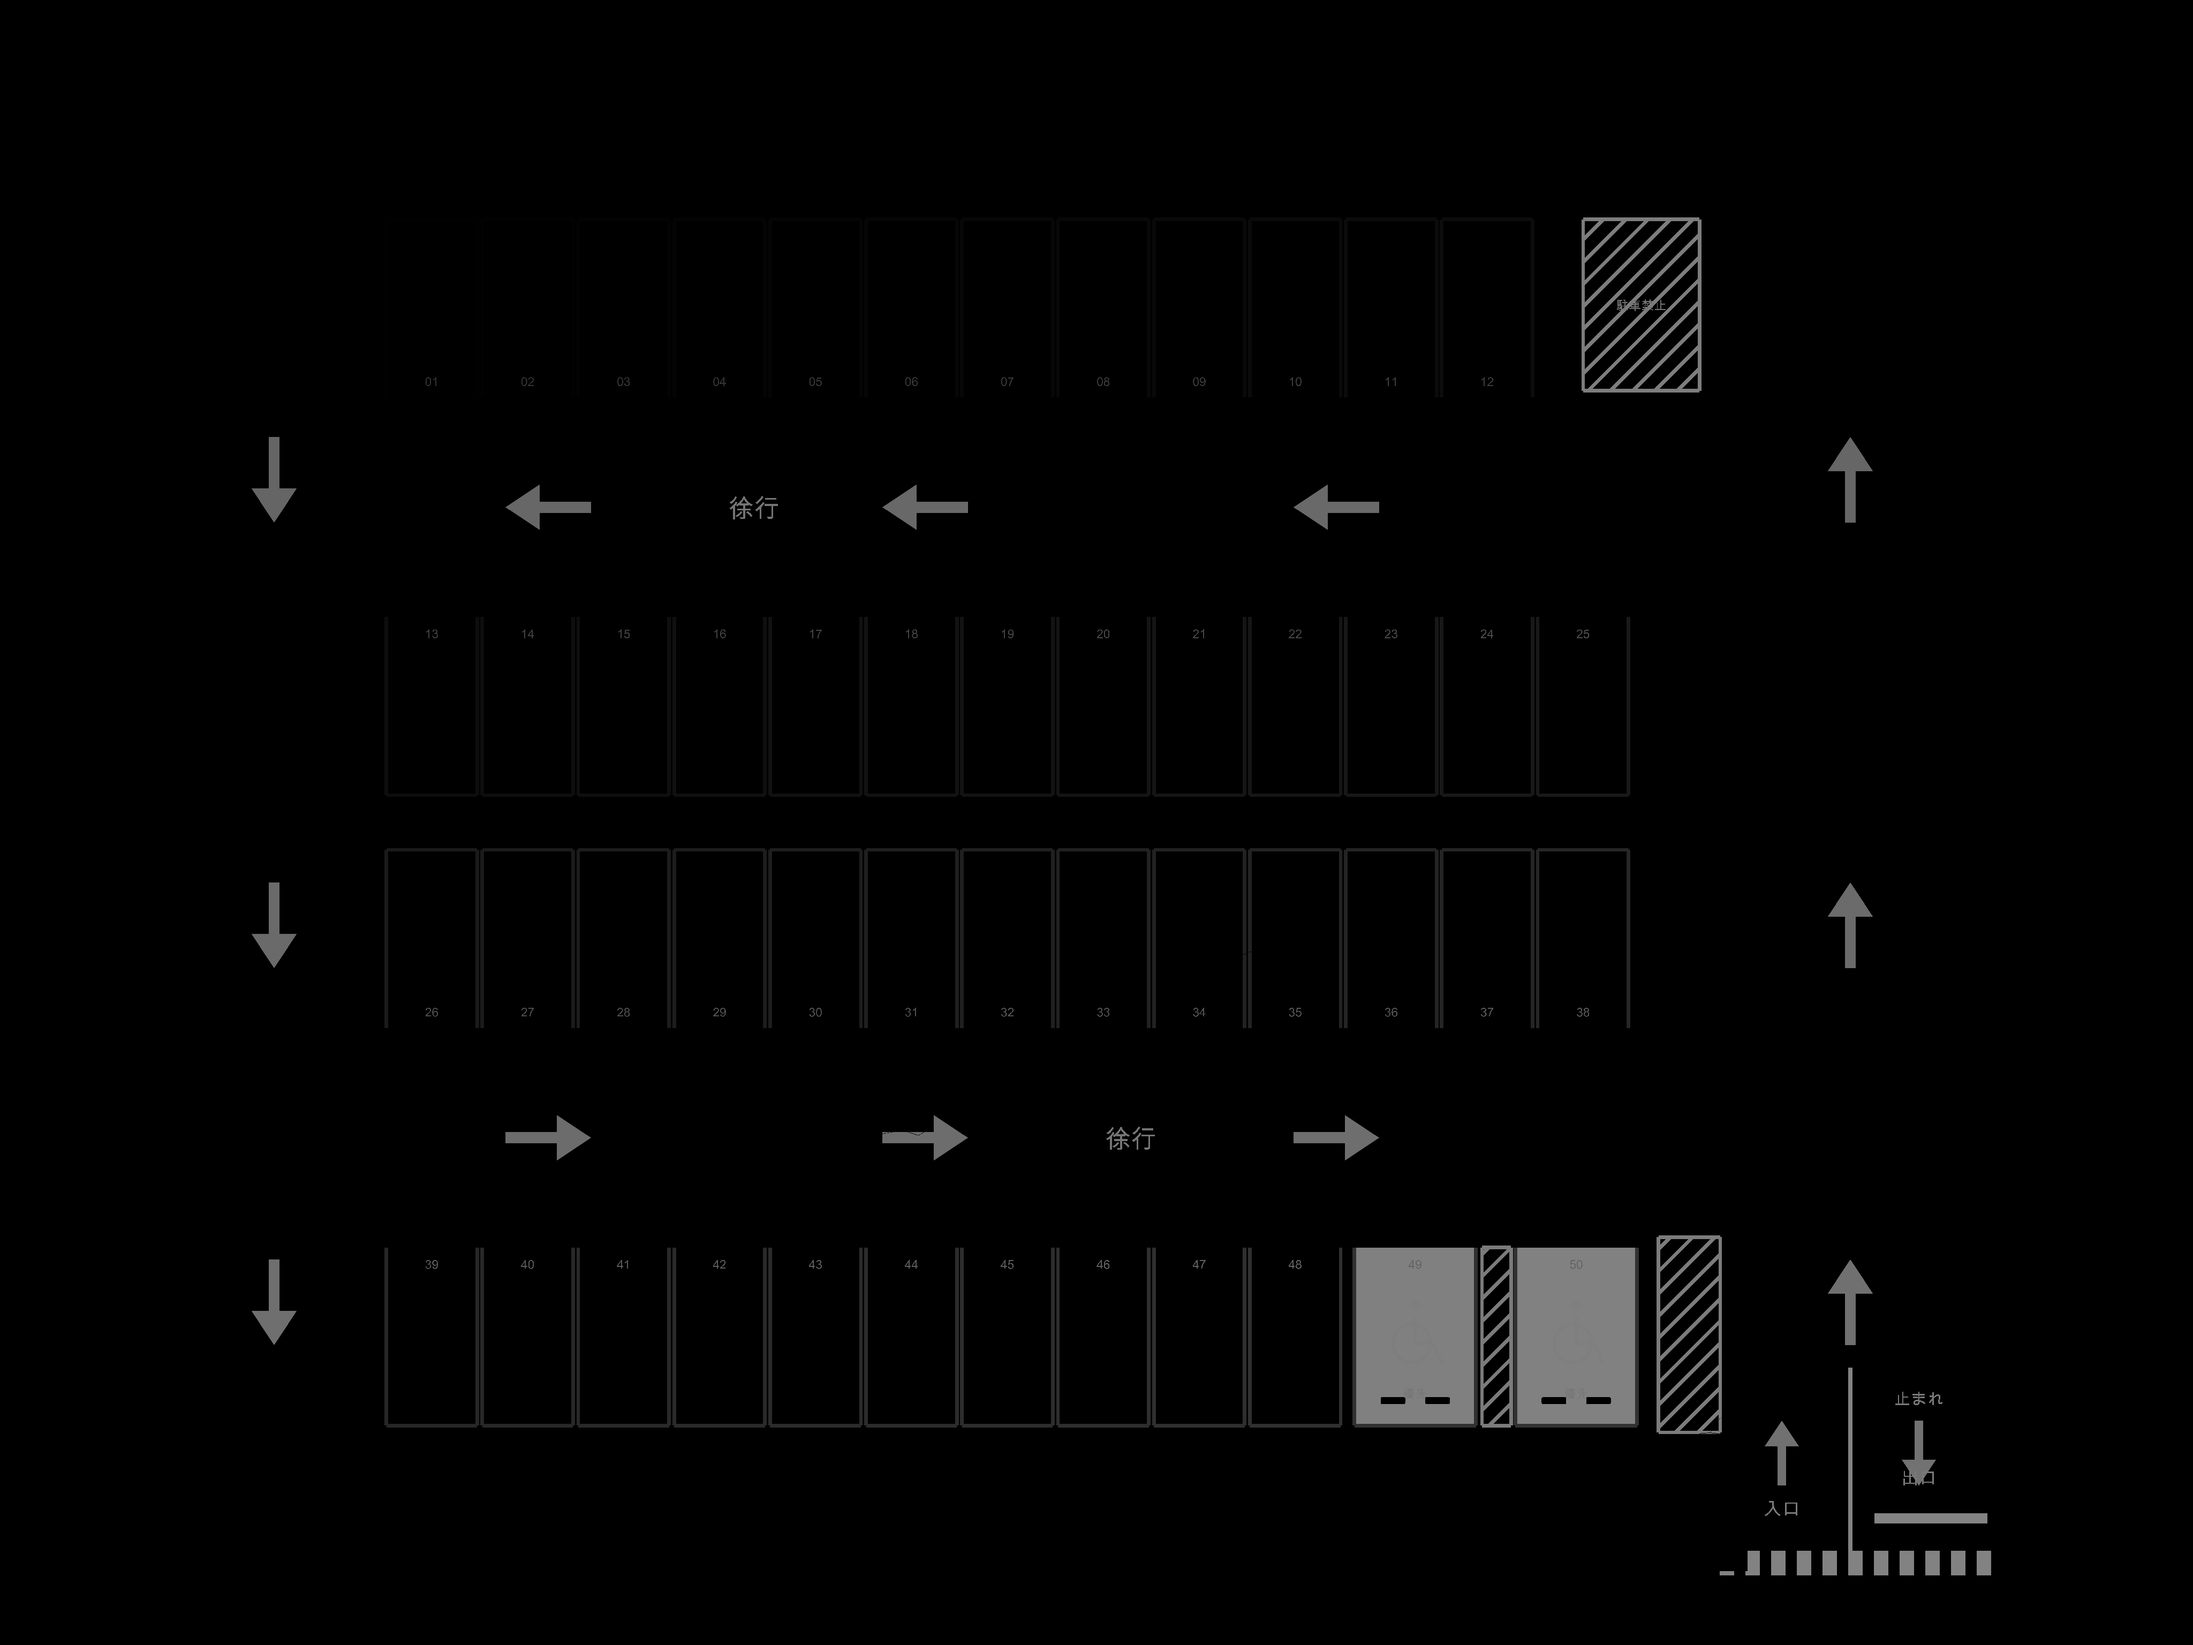
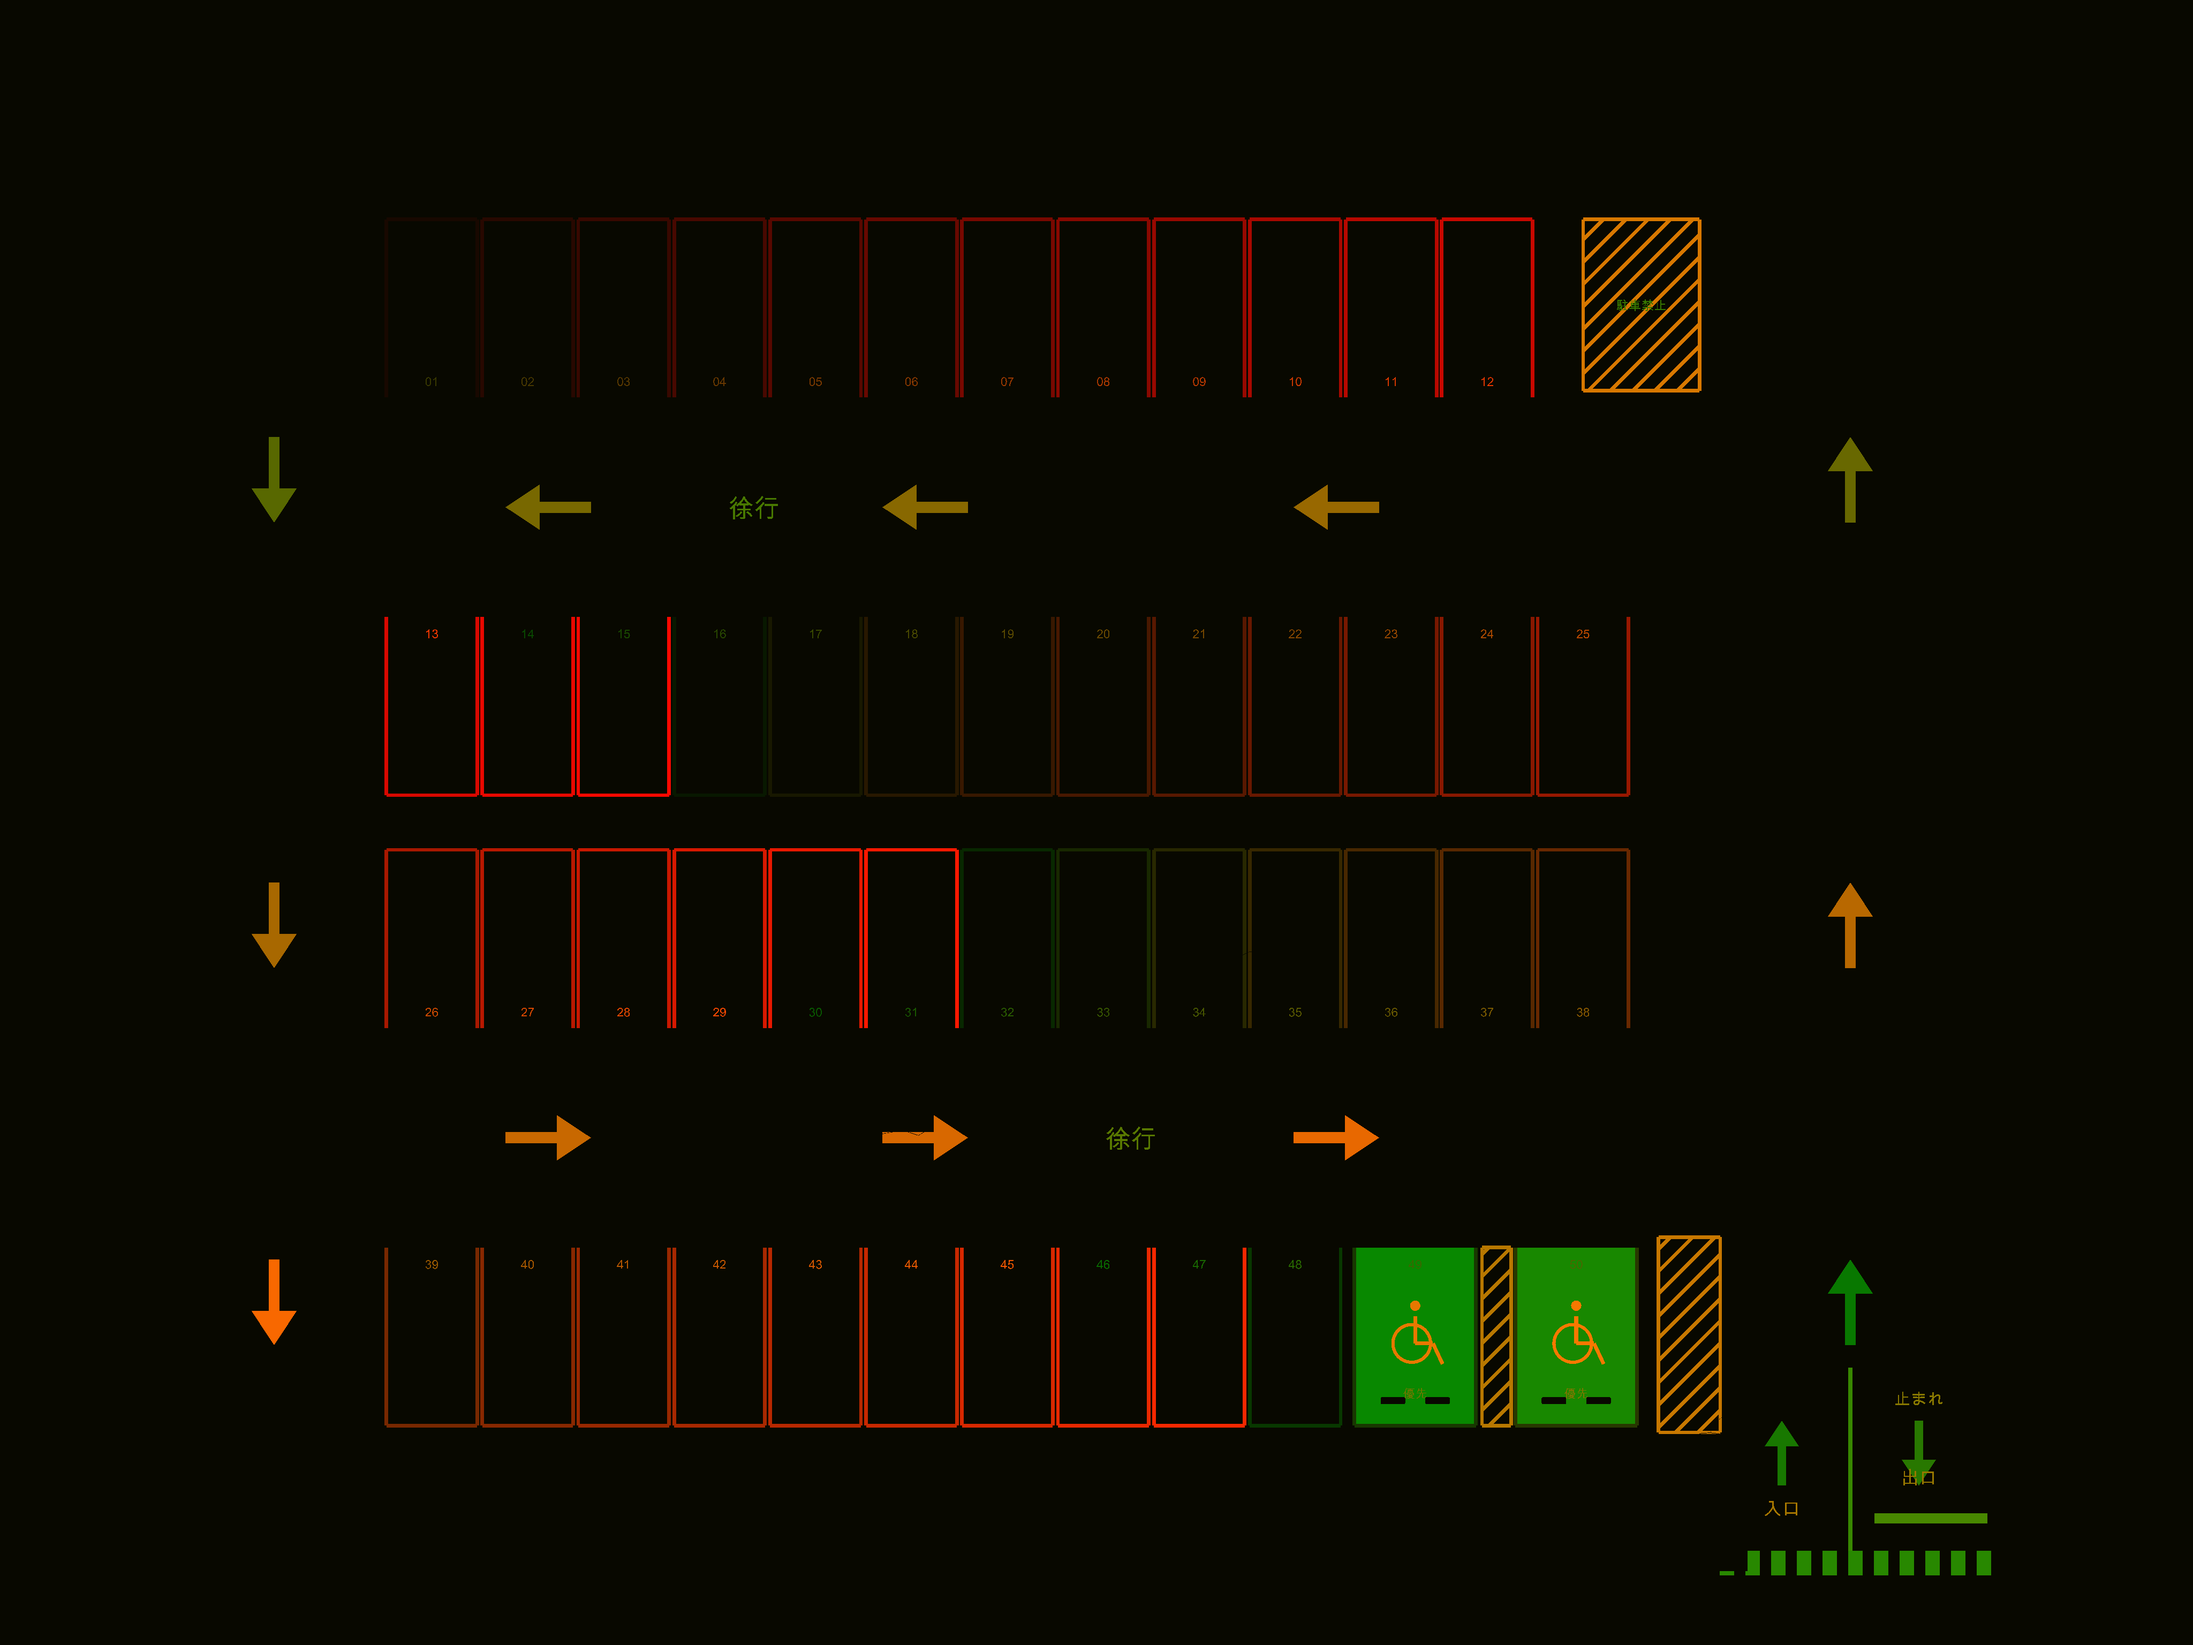
Demo: noise-tolerant marking-id map (Safari canvas fingerprint protection punched holes in the M panel)

diff --git a/docs/index.html b/docs/index.html
@@ -5,7 +5,7 @@
 <meta name="viewport" content="width=device-width, initial-scale=1">
 <title>Recover-then-Measure · Interactive demo</title>
 <meta name="description" content="Hover any pavement marking to see its original footprint M, its residual paint R, the degradation index D and the maintenance grade.">
-<link rel="preload" href="assets/topdown_rgb.webp?v=20261006b" as="fetch" crossorigin>
+<link rel="preload" href="assets/topdown_rgb.webp?v=20261006c" as="fetch" crossorigin>
 <style>
 :root{
   --bg:#0c0f14; --panel:#141920; --panel2:#1a2029; --line:#27303b; --text:#e8eef4; --muted:#8c99a6;
@@ -248,15 +248,15 @@ function buildLayer(colorOf){
 
 async function init(){
   const [json, rgb, m, r, id] = await Promise.all([
-    fetch("assets/regions.json?v=20261006b").then(x => x.json()),
-    bitmap("assets/topdown_rgb.webp?v=20261006b"), bitmap("assets/mask_M.png?v=20261006b"),
-    bitmap("assets/mask_R.png?v=20261006b"), bitmap("assets/mask_ids.png?v=20261006b")]);
+    fetch("assets/regions.json?v=20261006c").then(x => x.json()),
+    bitmap("assets/topdown_rgb.webp?v=20261006c"), bitmap("assets/mask_M.png?v=20261006c"),
+    bitmap("assets/mask_R.png?v=20261006c"), bitmap("assets/mask_ids.png?v=20261006c")]);
   regions = json.regions; W = json.image_width; H = json.image_height; MPP = json.metres_per_pixel || MPP;
   regions.forEach((g, i) => byId.set(g.id, i));
   rgbBmp = rgb; rgbData = pixels(rgb);
   const md = pixels(m), rd = pixels(r), idd = pixels(id);
   Mm = new Uint8Array(W*H); Rm = new Uint8Array(W*H); ids = new Uint8Array(W*H);
-  for (let k = 0, i = 0; k < W*H; k++, i += 4){ Mm[k] = md[i] > 127; Rm[k] = rd[i] > 127 && Mm[k]; ids[k] = Mm[k] ? idd[i] : 0; }
+  for (let k = 0, i = 0; k < W*H; k++, i += 4){ Mm[k] = md[i] > 127; Rm[k] = rd[i] > 127 && Mm[k]; ids[k] = Mm[k] ? (((idd[i+1] >> 4) << 4) | (idd[i] >> 4)) : 0; }   // noise-tolerant: 16 grey levels per id digit
   const gcol = GRADE_COLORS.map(h => [parseInt(h.slice(1,3),16), parseInt(h.slice(3,5),16), parseInt(h.slice(5,7),16)]);
   layerAll = buildLayer(k => Rm[k] ? R_RGB : M_RGB);
   layerGrade = buildLayer(k => { const i = byId.get(ids[k]); return i === undefined ? null : gcol[gradeIdx(regions[i].degradation_D)]; });
